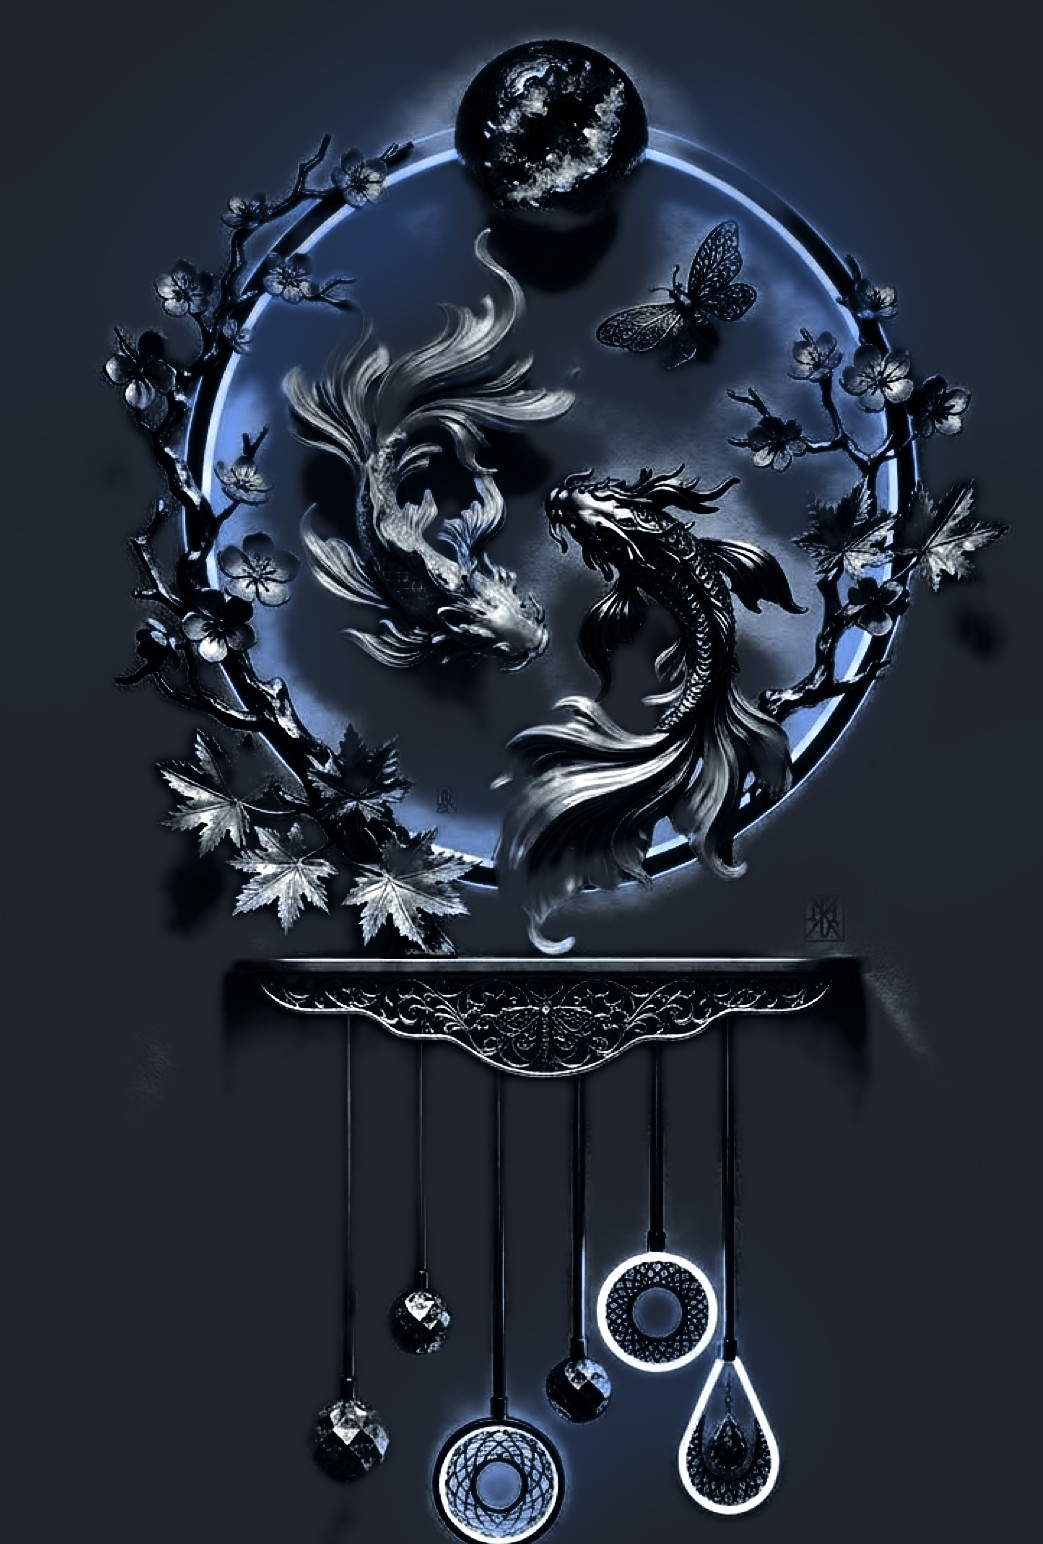
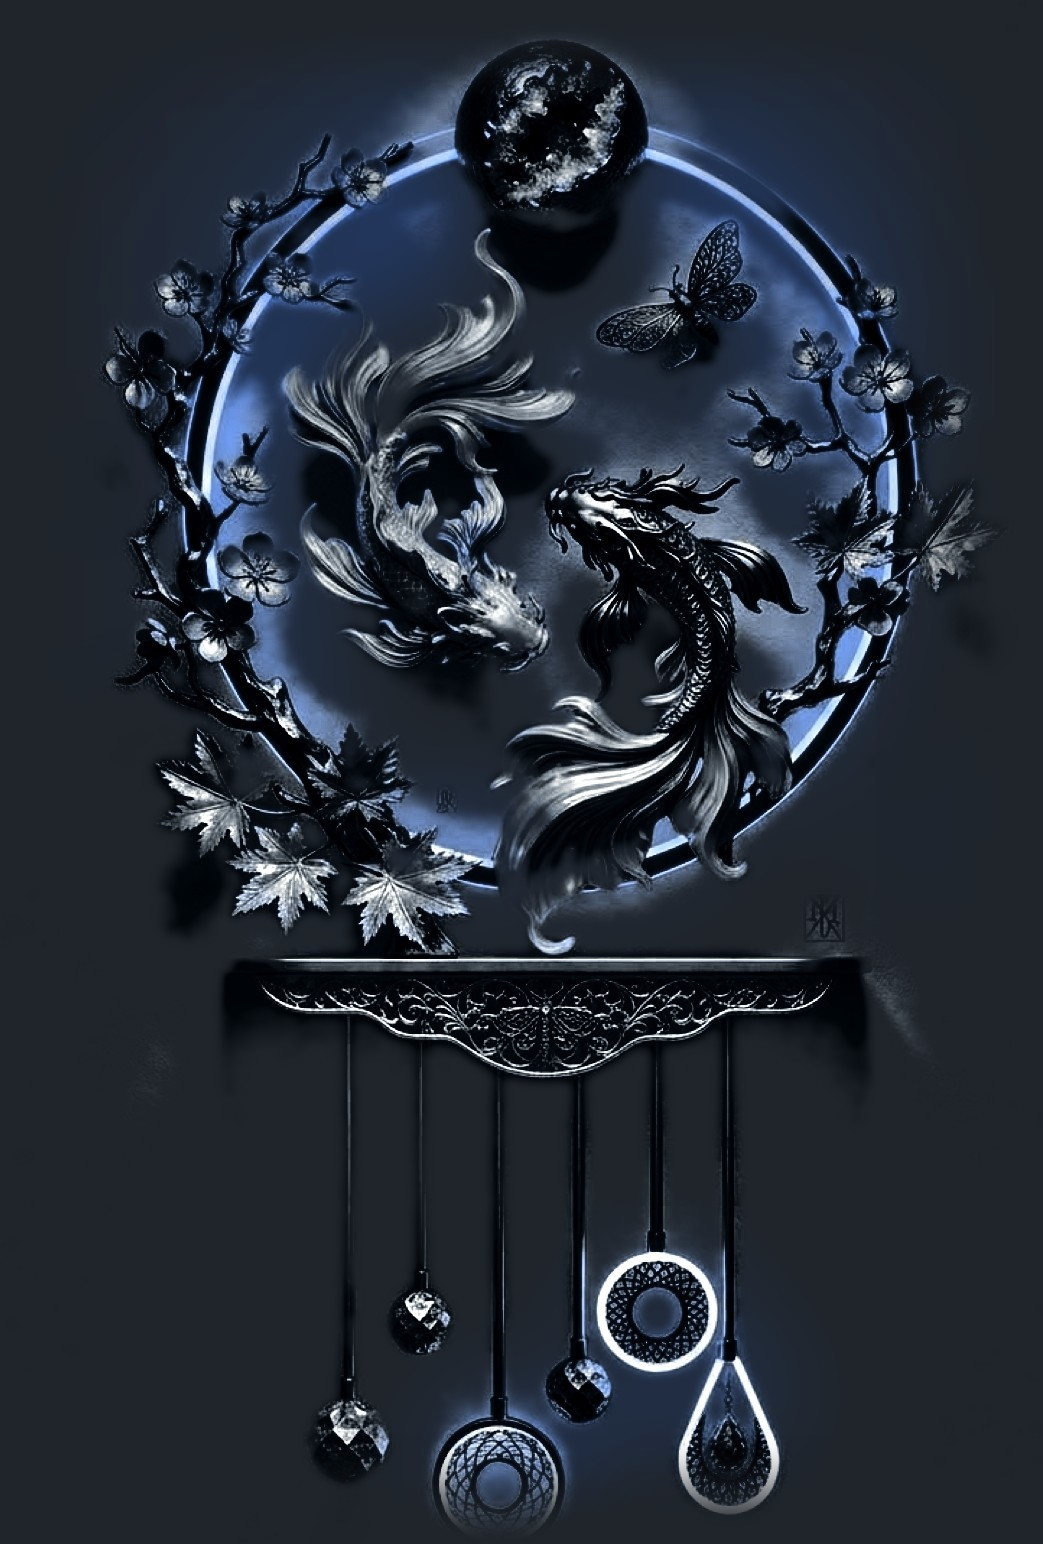
Réalisations : sculpture koï plus compacte, à côté du titre, bords entièrement fondus
Bords de l'image fondus dans la couleur du fond et masque dégradé sur les
quatre côtés : plus aucun contour rectangulaire. Sur écran large, la
sculpture se place à droite du titre ; sur mobile elle est réduite à 78 %
de la largeur. Médaillons dimensionnés par rapport à la sculpture.

Claude-Session: https://claude.ai/code/session_01MsBrykQRF2CJRb66r7PJCR

diff --git a/src/styles/global.css b/src/styles/global.css
@@ -616,9 +616,20 @@ ul, ol { margin: 0; }
 @media (prefers-reduced-motion: reduce) { .nav-imp-plateau, .nav-imp-led { transition: none; animation: none; } }
 
 /* ---------- Animation : anneau lumineux et carpes koï (boucle) ---------- */
-.koi { position: relative; margin: 28px auto 0; width: min(100%, 640px); aspect-ratio: 1043 / 1544; }
+.koi { position: relative; container-type: inline-size; margin: 20px auto 0; width: min(78vw, 380px); aspect-ratio: 1043 / 1544; }
+/* Page Réalisations : sur écran large, la sculpture se place à côté du titre (moins de hauteur, pas de vide). */
+.page-head--koi .wrap { display: grid; gap: 8px; }
+@media (min-width: 760px) {
+  .page-head--koi { padding-bottom: 0; }
+  .page-head--koi .wrap { grid-template-columns: minmax(0, 1fr) minmax(300px, 400px); align-items: center; gap: clamp(24px, 5vw, 72px); }
+  .page-head--koi .koi { margin: -24px 0 0; width: 100%; }
+}
 .koi-flotte { position: absolute; inset: 0; overflow: hidden; animation: koi-flotte 7s ease-in-out infinite;
-  -webkit-mask: radial-gradient(ellipse 72% 70% at 50% 48%, #000 72%, transparent 100%); mask: radial-gradient(ellipse 72% 70% at 50% 48%, #000 72%, transparent 100%); }
+  /* Bords fondus sur les quatre côtés : aucun contour rectangulaire, quel que soit le rendu des couleurs du navigateur. */
+  -webkit-mask: linear-gradient(90deg, transparent, #000 15%, #000 85%, transparent), linear-gradient(180deg, transparent, #000 7%, #000 93%, transparent);
+  -webkit-mask-composite: source-in;
+  mask: linear-gradient(90deg, transparent, #000 15%, #000 85%, transparent), linear-gradient(180deg, transparent, #000 7%, #000 93%, transparent);
+  mask-composite: intersect; }
 .koi-img { position: absolute; inset: 0; display: block; width: 100%; height: 100%; object-fit: cover; }
 .koi-eau { position: absolute; inset: 0; filter: url(#koi-ondule);
   -webkit-mask: radial-gradient(ellipse 34% 26% at 52% 38%, #000 55%, transparent 100%); mask: radial-gradient(ellipse 34% 26% at 52% 38%, #000 55%, transparent 100%); }
@@ -632,17 +643,17 @@ ul, ol { margin: 0; }
 @keyframes koi-flotte { 50% { transform: translateY(-6px); } }
 @keyframes koi-pulse { 0%, 100% { opacity: .45; } 50% { opacity: 1; } }
 @keyframes koi-reflet { 0% { transform: translateX(-40%); } 60%, 100% { transform: translateX(40%); } }
-@keyframes koi-poussiere { 0% { transform: translateY(0); opacity: 0; } 15% { opacity: .8; } 100% { transform: translateY(-960px); opacity: 0; } }
+@keyframes koi-poussiere { 0% { transform: translateY(0); opacity: 0; } 15% { opacity: .8; } 100% { transform: translateY(-620px); opacity: 0; } }
 /* Liens intégrés à la sculpture : de la lumière, pas des boutons. Le calque est fondu en « screen » sur la sculpture :
    seule la lueur s'ajoute, comme si la géode et l'ornement s'éclairaient de l'intérieur, au rythme de l'anneau. */
 .koi-liens { position: absolute; inset: 0; animation: koi-flotte 7s ease-in-out infinite; pointer-events: none; mix-blend-mode: screen; }
-.koi-lien { --t: clamp(60px, 16vw, 104px); position: absolute; width: var(--t); aspect-ratio: 1; transform: translate(-50%, -50%);
+.koi-lien { --t: 21cqw; position: absolute; width: var(--t); aspect-ratio: 1; transform: translate(-50%, -50%);
   display: grid; place-items: center; pointer-events: auto; border-radius: 50%; color: #DCE6FF;
   background: radial-gradient(circle, rgba(143, 176, 245, .5) 0%, rgba(40, 100, 220, .32) 32%, rgba(40, 100, 220, .1) 55%, transparent 70%);
   -webkit-tap-highlight-color: transparent; animation: koi-souffle 4.5s ease-in-out infinite;
   transition: transform .4s cubic-bezier(.3, 1.4, .5, 1), filter .4s ease; }
 .koi-lien--geode { left: 51.6%; top: 7.4%; }
-.koi-lien--console { --t: clamp(54px, 13.5vw, 88px); left: 51.4%; top: 65.2%; animation-delay: -2.2s; }
+.koi-lien--console { --t: 17cqw; left: 51.4%; top: 65.2%; animation-delay: -2.2s; }
 .koi-lien:hover, .koi-lien:focus-visible { transform: translate(-50%, -50%) scale(1.12); filter: brightness(1.5) saturate(1.2); }
 .koi-lien:focus-visible { outline: 2px solid rgba(220, 230, 255, .8); outline-offset: 2px; }
 .koi-lien:active { transform: translate(-50%, -50%) scale(.96); }
